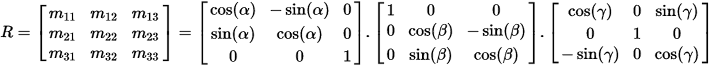
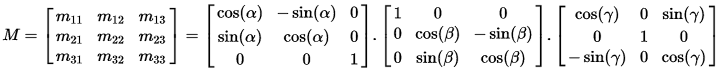
Update rotation matrix nomenclature to avoid conflict with R rotation vector defined elsewhere in spec

diff --git a/spec-source-orientation.html b/spec-source-orientation.html
@@ -768,14 +768,18 @@ function compassHeading( alpha, beta, gamma ) {
 
   <p>The first alternate orientation representation is to use rotation matrixes. By combining the component rotation matrixes
     provided in the <a href="#worked-example">worked example</a> above we
-    can represent the orientation of the device body frame as a rotation matrix:
+    can represent the orientation of the device body frame as a rotation matrix.
+
+  <p>If M represents the rotation matrix m in the earth frame XYZ, then since the inital body frame is aligned with the earth, M is as follows.
 
   <object class="equation" data="equation9.xhtml" type="application/mathml+xml">
     <img src="equation9.png" alt="R = ABC">
   </object>
   </p>
 
-  <!--<p>where:
+<!--
+
+  <p>where:
 
   <object class="equation" data="equation10.xhtml" type="application/mathml+xml">
     <img src="equation10.png" alt="A = [[cos(alpha), -sin(alpha), 0], [sin(alpha), cos(alpha), 0],[ 0, 0, 1 ]]">
@@ -791,9 +795,9 @@ function compassHeading( alpha, beta, gamma ) {
 
   </p>
 
-  <p>Thus, the full rotation matrix can be calculated as follows:-->
+-->
 
-  <p>Where the final combined rotation matrix is therefore
+  <p>Where the final combined rotation matrix M is therefore as follows.
 
   <object class="equation" data="equation13.xhtml" type="application/mathml+xml">
     <img src="equation13.png" alt="R = [[m_11, m_12, m_13], [m_21, m_22, m_23],[ m_31, m_32, m_33 ]] = [[cos(alpha), -sin(alpha), 0], [sin(alpha), cos(alpha), 0],[ 0, 0, 1 ]].[[1, 0, 0], [0, cos(beta), -sin(beta)], [0, sin(beta), cos(beta)]].[[cos(gamma), 0, sin(gamma)], [0, 1, 0], [-sin(gamma), 0, cos(gamma)]]">
@@ -803,7 +807,7 @@ function compassHeading( alpha, beta, gamma ) {
     <img src="equation13a.png" alt="R = [[cos(alpha) cos(gamma)-sin(alpha) sin(beta) sin(gamma), -cos(beta) sin(alpha), cos(gamma) sin(alpha) sin(beta)+cos(alpha) sin(gamma)], [cos(gamma) sin(alpha)+cos(alpha) sin(beta) sin(gamma), cos(alpha) cos(beta), sin(alpha) sin(gamma)-cos(alpha) cos(gamma) sin(beta)], [-cos(beta) sin(gamma), sin(beta), cos(beta) cos(gamma)]]">
   </object>
 
-  <p>The above combined rotation matrix can be represented in JavaScript as follows:
+  <p>The above combined rotation matrix can be represented in JavaScript as follows.
 
 <pre>
 var degtorad = Math.PI / 180; // Degree-to-Radian conversion
